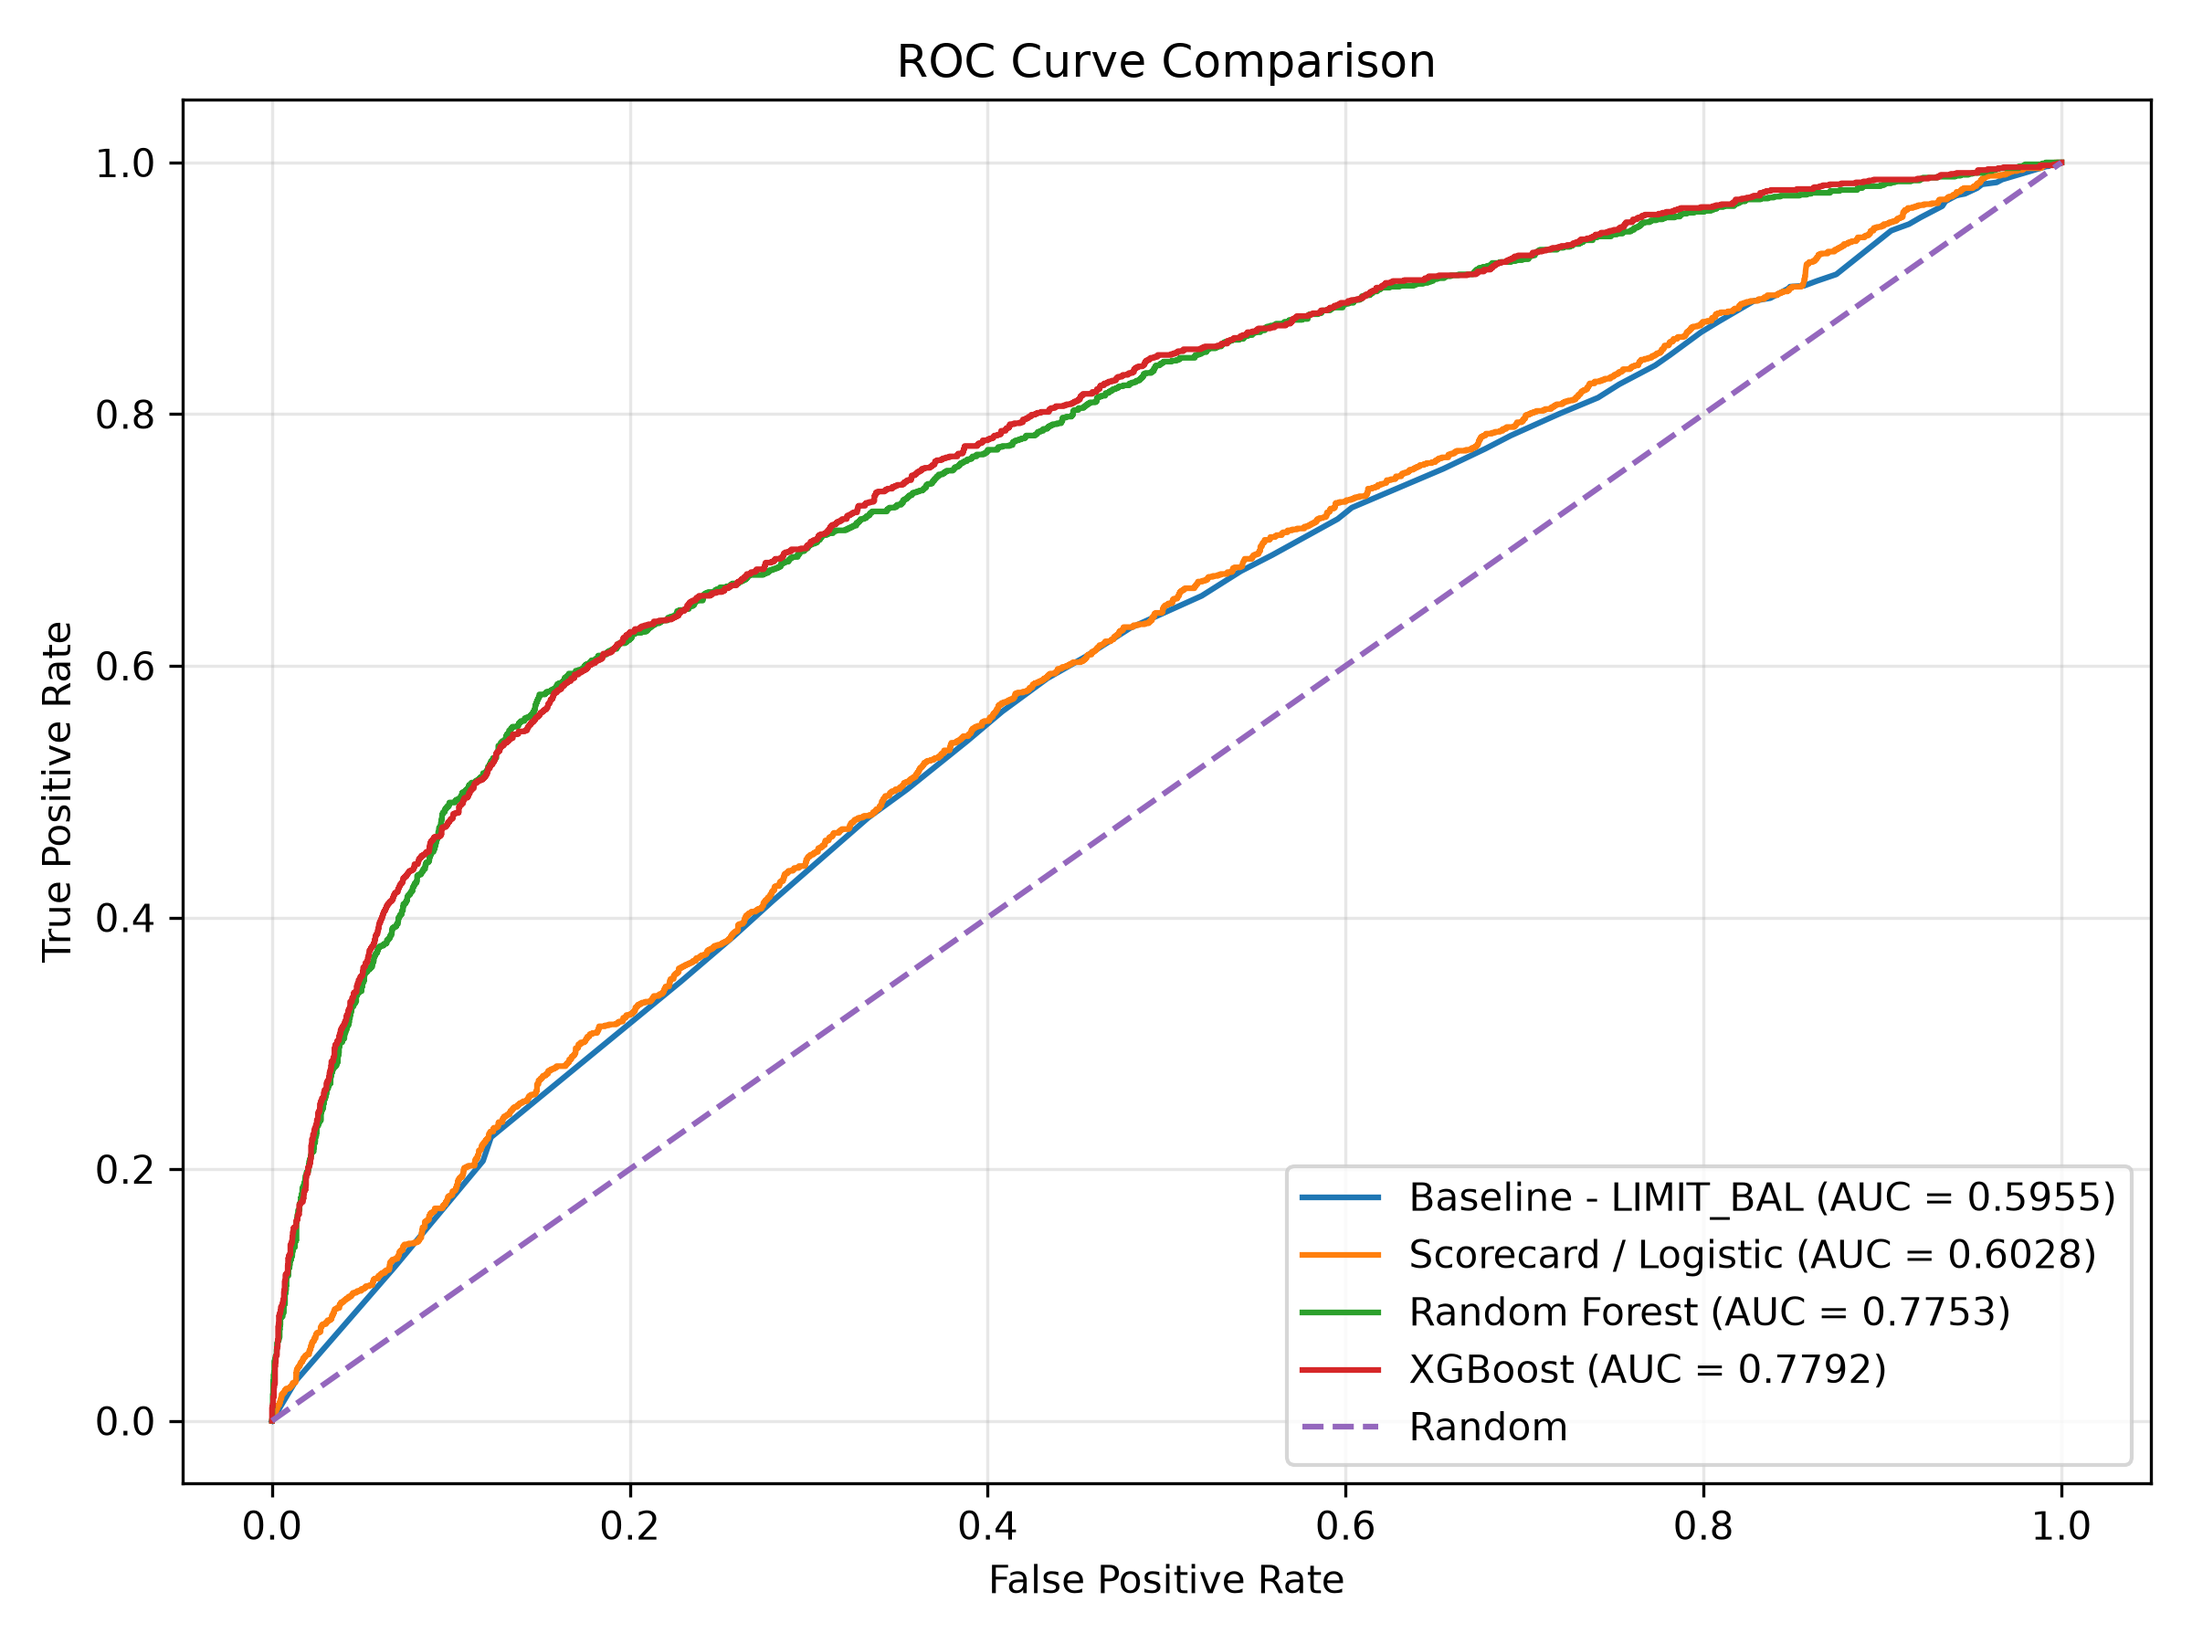
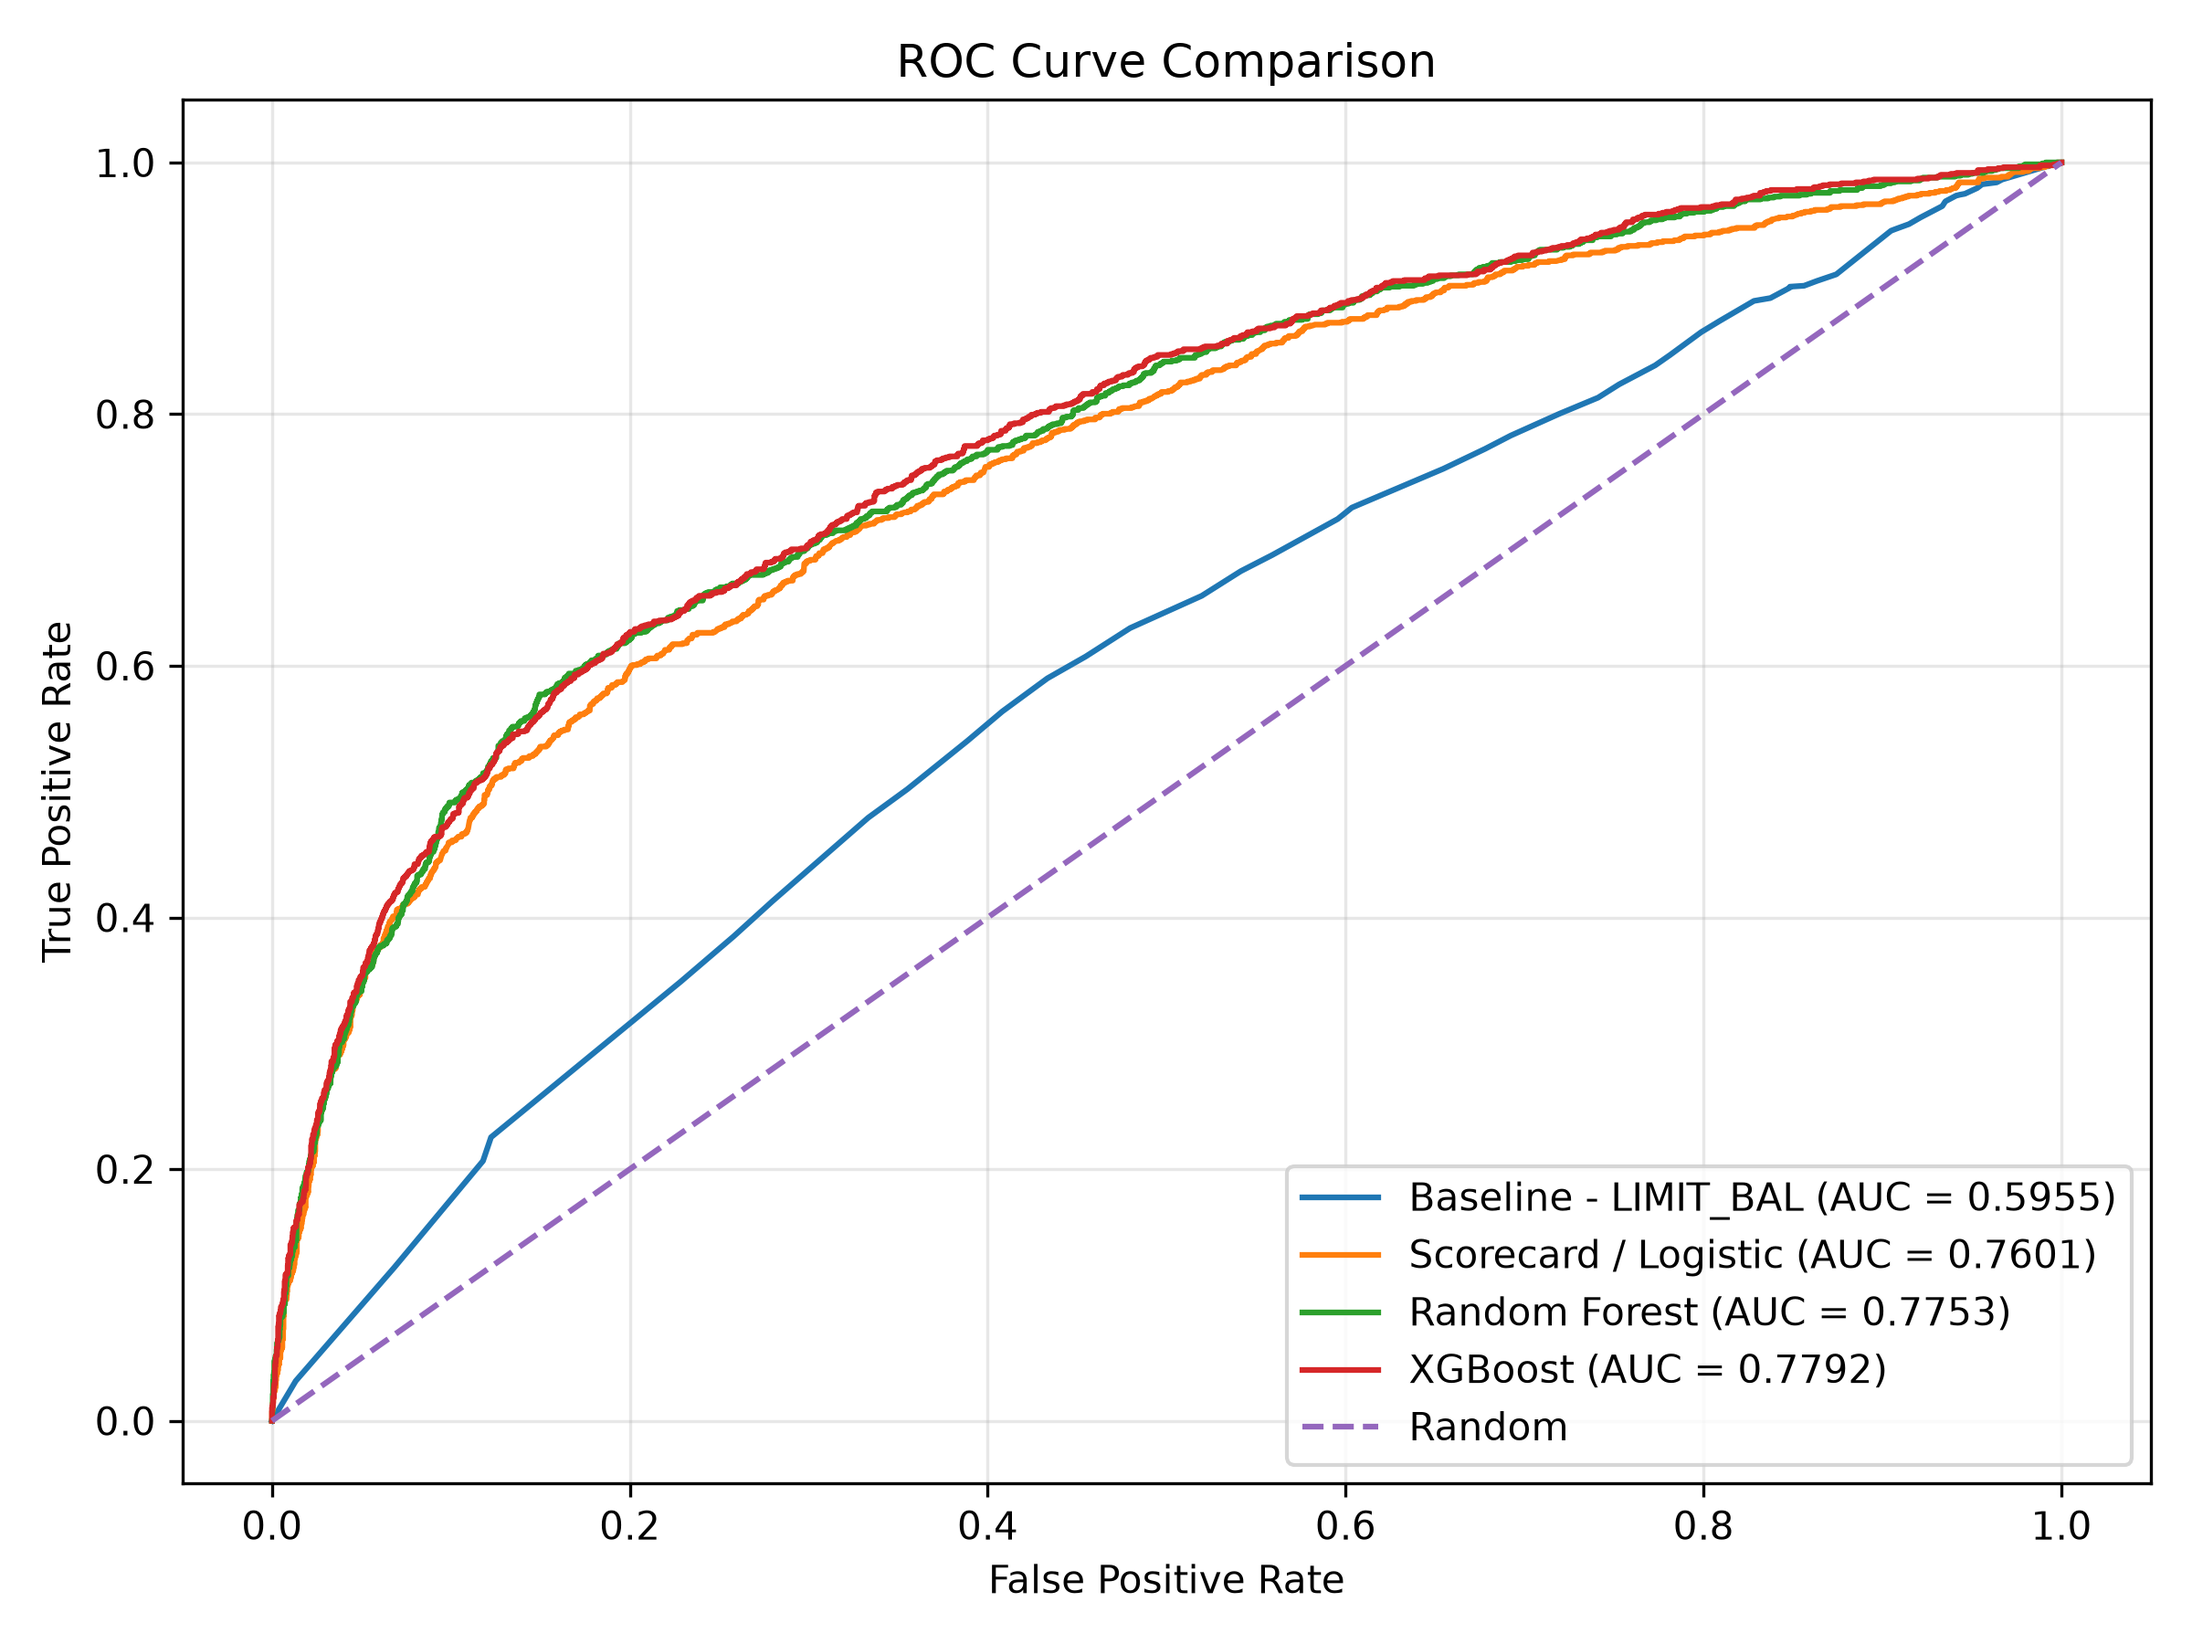
Sua loi tinh AUC Scorecard trong roc_comparison va cap nhat hinh ROC

diff --git a/roc_comparison.py b/roc_comparison.py
@@ -12,6 +12,7 @@ from xgboost import XGBClassifier
 # ==========================================
 
 test = pd.read_csv("data/test.csv")
+woe_test = pd.read_csv("data/woe_test.csv")
 
 y = test["default"]
 
@@ -39,7 +40,7 @@ params = scorecard["params"]
 logit_score = np.full(len(test), params["const"], dtype=float)
 
 for feature in features:
-    logit_score += params[feature] * test[feature]
+    logit_score += params[feature] * woe_test[feature]
 
 fpr_logit, tpr_logit, _ = roc_curve(y, logit_score)
 auc_logit = auc(fpr_logit, tpr_logit)
